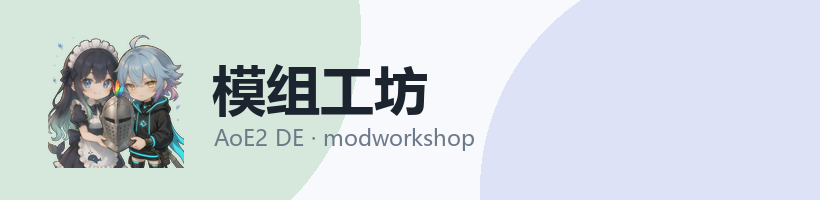
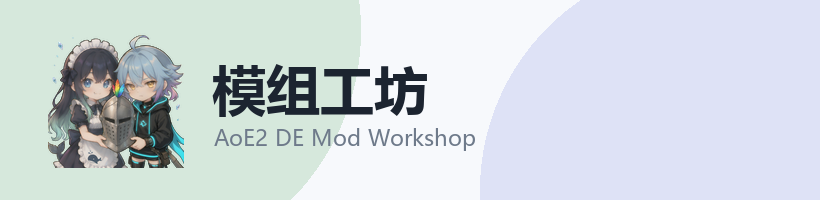
Call the program by the name it has on the shelf
The window title, the About page and the installer are Chinese, but the file a
user double-clicks had a lower-case hyphenated slug. The product name is now
AoE2 DE Mod Workshop everywhere it is a name: productName in tauri.conf.json,
the exe in all three bundles, the installer's AppName / shortcuts / uninstall
entry, and the banner subtitle.

The cargo target keeps its slug -- a crate name cannot carry spaces -- so the
bundler copies the built image to the display name. Nothing inside the page
changed; 模组工坊 is still what the rail and the header say.

Changed region(s): [[0.3659, 0.63, 0.5793, 0.75]]

diff --git a/_probe/make_bundle_native.py b/_probe/make_bundle_native.py
@@ -8,7 +8,7 @@ stripped CPython and 38 `.py` files.  The engine is a Rust library now, linked
 into the exe, so `runtime\\` is gone and `app\\` holds only what is genuinely
 data:
 
-    aoe2-mod-workshop.exe     the shell AND the engine, one image
+    AoE2 DE Mod Workshop.exe     the shell AND the engine, one image
     WebView2Loader.dll        the loader the exe cannot start without
     app\\aoe2mod\\ui\\static\\   index.html -- the screen, editable
     app\\aoe2mod\\schema\\      intents.json etc -- the format description,
@@ -38,7 +38,7 @@ README = """帝国时代 2 决定版 · 模组工坊
 
 怎么启动
 --------
-双击 aoe2-mod-workshop.exe。没有控制台窗口，不用装 Python，也不用装别的东西。
+双击 AoE2 DE Mod Workshop.exe。没有控制台窗口，不用装 Python，也不用装别的东西。
 
 它需要什么
 ----------
@@ -54,7 +54,7 @@ README = """帝国时代 2 决定版 · 模组工坊
 
 文件夹里都是什么
 ----------------
-  aoe2-mod-workshop.exe   外壳 + 引擎（同一个程序，读 .dat 的代码在里面）
+  AoE2 DE Mod Workshop.exe   外壳 + 引擎（同一个程序，读 .dat 的代码在里面）
   WebView2Loader.dll      Windows 的 WebView2 装载器，缺了程序起不来
   app\\aoe2mod\\ui\\static\\  界面（index.html），可以直接改
   app\\aoe2mod\\schema\\     格式说明（JSON），可以直接改
@@ -148,7 +148,7 @@ def main(argv=None):
         shutil.rmtree(out, ignore_errors=True)
     os.makedirs(out, exist_ok=True)
 
-    shutil.copy2(EXE, os.path.join(out, "aoe2-mod-workshop.exe"))
+    shutil.copy2(EXE, os.path.join(out, "AoE2 DE Mod Workshop.exe"))
     shutil.copy2(dll_src, os.path.join(out, LOADER_DLL))
     app_stats = copy_app(os.path.join(out, "app"))
     if app_stats is None:
@@ -157,13 +157,13 @@ def main(argv=None):
                  encoding="utf-8", newline="\r\n") as fh:
         fh.write(README)
 
-    exe_mb = os.path.getsize(os.path.join(out, "aoe2-mod-workshop.exe")) / (1024.0 ** 2)
+    exe_mb = os.path.getsize(os.path.join(out, "AoE2 DE Mod Workshop.exe")) / (1024.0 ** 2)
     total_mb, total_n = size_of(out)
     print("shell    %7.1f MB  (engine linked in)" % exe_mb)
     print("app      %7.1f MB  %5d files" % (app_stats[0] / (1024.0 ** 2), app_stats[1]))
     print("TOTAL    %7.1f MB  %5d files  -> %s" % (total_mb / (1024.0 ** 2), total_n, out))
 
-    for name in ("aoe2-mod-workshop.exe", LOADER_DLL):
+    for name in ("AoE2 DE Mod Workshop.exe", LOADER_DLL):
         if not os.path.isfile(os.path.join(out, name)):
             print("FAILED: %s did not land in %s" % (name, out))
             return 1

diff --git a/_probe/make_bundle.py b/_probe/make_bundle.py
@@ -3,7 +3,7 @@
 What it produces
 ----------------
     _out\\AoE2ModWorkshop\\  (the path lives in `_probe/_paths.py`)
-        aoe2-mod-workshop.exe     ~5.5 MB   the Tauri shell
+        AoE2 DE Mod Workshop.exe     ~5.5 MB   the Tauri shell
         runtime\\                  ~35 MB    stripped CPython 3.12.14
         app\\tools\\run_ui.py
         app\\aoe2mod\\             ~3 MB     engine (source only, no test output)
@@ -69,7 +69,7 @@ README = """帝国时代 2 决定版 · 模组工坊
 
 怎么启动
 --------
-双击 aoe2-mod-workshop.exe。没有控制台窗口，也不用装 Python。
+双击 AoE2 DE Mod Workshop.exe。没有控制台窗口，也不用装 Python。
 
 它需要什么
 ----------
@@ -86,7 +86,7 @@ README = """帝国时代 2 决定版 · 模组工坊
 
 文件夹里都是什么
 ----------------
-  aoe2-mod-workshop.exe   外壳（Tauri + WebView2）
+  AoE2 DE Mod Workshop.exe   外壳（Tauri + WebView2）
   runtime\\                自带的 Python 3.12，只需要标准库
   app\\                    引擎与界面（aoe2mod\\ + tools\\）
   dat_archive\\           官方数据档案库（313 MB，见下）
@@ -435,7 +435,7 @@ def main(argv=None):
         _rmtree(out)
     os.makedirs(out, exist_ok=True)
 
-    shutil.copy2(EXE, os.path.join(out, "aoe2-mod-workshop.exe"))
+    shutil.copy2(EXE, os.path.join(out, "AoE2 DE Mod Workshop.exe"))
     # Beside the exe, not inside app\ or runtime\: the Windows loader searches
     # the directory of the image before anywhere else.
     shutil.copy2(dll_src, os.path.join(out, LOADER_DLL))
@@ -460,7 +460,7 @@ def main(argv=None):
                  encoding="utf-8", newline="\r\n") as fh:
         fh.write(README)
 
-    exe_mb = os.path.getsize(os.path.join(out, "aoe2-mod-workshop.exe")) / (1024.0 ** 2)
+    exe_mb = os.path.getsize(os.path.join(out, "AoE2 DE Mod Workshop.exe")) / (1024.0 ** 2)
     total_mb, total_n = size_of(out)
     print("runtime  %7.1f MB  %5d files" % (rt_mb / (1024.0 ** 2), rt_n))
     print("app      %7.1f MB  %5d files" % (app_mb / (1024.0 ** 2), app_n))
@@ -469,7 +469,7 @@ def main(argv=None):
 
     # The DLL is the one file whose absence produces no log line, so check it
     # landed rather than trusting the copy above.
-    for name in ("aoe2-mod-workshop.exe", LOADER_DLL):
+    for name in ("AoE2 DE Mod Workshop.exe", LOADER_DLL):
         if not os.path.isfile(os.path.join(out, name)):
             print("FAILED: %s did not land in %s" % (name, out))
             return 1

diff --git a/_probe/probe_startup_failure.py b/_probe/probe_startup_failure.py
@@ -328,7 +328,7 @@ def stage(name, exe, with_app):
     # FileExistsError instead of "still in use".
     d = os.path.join(SANDBOX, "%s_%d" % (name, int(time.time())))
     os.makedirs(d)
-    shutil.copy2(exe, os.path.join(d, "aoe2-mod-workshop.exe"))
+    shutil.copy2(exe, os.path.join(d, "AoE2 DE Mod Workshop.exe"))
     shutil.copy2(DLL, os.path.join(d, "WebView2Loader.dll"))
     if with_app:
         shutil.copytree(os.path.join(BUNDLE, "app"), os.path.join(d, "app"))
@@ -387,7 +387,7 @@ def run_missing_data(port):
     off = log_size()
     env = dict(os.environ)
     env["AOE2MOD_GAME_ROOT"] = empty
-    p = subprocess.Popen([os.path.join(BUNDLE, "aoe2-mod-workshop.exe"),
+    p = subprocess.Popen([os.path.join(BUNDLE, "AoE2 DE Mod Workshop.exe"),
                           "--port", str(port)], cwd=BUNDLE, env=env,
                          stdout=subprocess.DEVNULL, stderr=subprocess.DEVNULL)
     err = None
@@ -455,7 +455,7 @@ def run(name, exe, with_app, port):
     d = stage(name, exe, with_app)
     off = log_size()
     t0 = time.time()
-    p = subprocess.Popen([os.path.join(d, "aoe2-mod-workshop.exe"), "--port", str(port)],
+    p = subprocess.Popen([os.path.join(d, "AoE2 DE Mod Workshop.exe"), "--port", str(port)],
                          cwd=d)
     m_log = m_port = None
     while time.time() - t0 < WAIT:

diff --git a/_probe/test_e2e_shipped.py b/_probe/test_e2e_shipped.py
@@ -18,7 +18,7 @@ import urllib.request
 import _paths as P
 
 OUT = P.BUNDLE
-EXE = os.path.join(OUT, "aoe2-mod-workshop.exe")
+EXE = os.path.join(OUT, "AoE2 DE Mod Workshop.exe")
 SRC = GP.ACCOUNT
 TMP = os.path.join(os.environ["TEMP"], "aoe2mod-e2e-shipped")
 PORT = 7807
@@ -46,7 +46,7 @@ def get(path):
 def kill_engine_child():
     """Kill the shipped runtime python this exe started, if it outlived it.
 
-    `taskkill /IM aoe2-mod-workshop.exe` kills the shell only.  The child python
+    `taskkill /IM AoE2 DE Mod Workshop.exe` kills the shell only.  The child python
     keeps the listening socket for a few more seconds, and because Windows lets a
     second socket bind a port the dying one still accepts on, a request can land
     on the corpse.  The child is identified by executable path, never by image
@@ -96,7 +96,7 @@ def main():
     with open(os.path.join(state, "builds.json"), "w", encoding="utf-8") as fh:
         fh.write('{"builds":{}}')
 
-    subprocess.run(["taskkill", "/IM", "aoe2-mod-workshop.exe", "/F"],
+    subprocess.run(["taskkill", "/IM", "AoE2 DE Mod Workshop.exe", "/F"],
                    capture_output=True)
     kill_engine_child()
     port_free(PORT)

diff --git a/_probe/ship_and_verify.py b/_probe/ship_and_verify.py
@@ -80,7 +80,7 @@ def check_exe_is_the_built_one(out):
     program instead of the program is the "all green, wrong artefact" failure
     this project has already paid for once.
     """
-    exe = os.path.join(out, "aoe2-mod-workshop.exe")
+    exe = os.path.join(out, "AoE2 DE Mod Workshop.exe")
     if not os.path.isfile(exe):
         print("REFUSING: no exe in the bundle at", exe)
         return None
@@ -477,14 +477,14 @@ def check_routes(port):
 
 
 def kill_exe():
-    subprocess.run(["taskkill", "/IM", "aoe2-mod-workshop.exe", "/F"],
+    subprocess.run(["taskkill", "/IM", "AoE2 DE Mod Workshop.exe", "/F"],
                    capture_output=True)
 
 
 def kill_engine_child():
     """Kill the shipped runtime python this exe started, if it outlived it.
 
-    `taskkill /IM aoe2-mod-workshop.exe` kills the shell; the child python it
+    `taskkill /IM AoE2 DE Mod Workshop.exe` kills the shell; the child python it
     spawned keeps the listening socket for a few more seconds and, because
     Windows lets two sockets share a port without SO_EXCLUSIVEADDRUSE, a new
     child can bind the same port while the dying one still accepts.  Then a

diff --git a/_probe/test_soft_edit.py b/_probe/test_soft_edit.py
@@ -10,13 +10,13 @@ sys.path.insert(0, os.path.dirname(os.path.abspath(__file__)))
 import _paths as P
 
 BUNDLE = P.BUNDLE
-EXE = os.path.join(BUNDLE, 'aoe2-mod-workshop.exe')
+EXE = os.path.join(BUNDLE, 'AoE2 DE Mod Workshop.exe')
 PORT = 7813
 UNIT = 74
 
 
 def start():
-    subprocess.run(['taskkill', '/IM', 'aoe2-mod-workshop.exe', '/F'], capture_output=True)
+    subprocess.run(['taskkill', '/IM', 'AoE2 DE Mod Workshop.exe', '/F'], capture_output=True)
     time.sleep(1)
     p = subprocess.Popen([EXE, '--port', str(PORT)], cwd=BUNDLE,
                          stdout=subprocess.DEVNULL, stderr=subprocess.DEVNULL)
@@ -121,7 +121,7 @@ try:
         print('  shot ' + shot)
         b.close()
 finally:
-    subprocess.run(['taskkill', '/IM', 'aoe2-mod-workshop.exe', '/F'], capture_output=True)
+    subprocess.run(['taskkill', '/IM', 'AoE2 DE Mod Workshop.exe', '/F'], capture_output=True)
 
 print()
 print('SOFT EDIT PROBE: ' + ('ALL GREEN' if not FAILED else 'FAILURES: ' + '; '.join(FAILED)))

diff --git a/_probe/test_pages_shipped.py b/_probe/test_pages_shipped.py
@@ -34,7 +34,7 @@ ROOT = os.path.dirname(HERE)
 sys.path.insert(0, ROOT)
 
 BUNDLE = P.BUNDLE
-EXE = os.path.join(BUNDLE, "aoe2-mod-workshop.exe")
+EXE = os.path.join(BUNDLE, "AoE2 DE Mod Workshop.exe")
 PORT = 7809
 
 # Assertion per view: element id -> (minimum children, human name)
@@ -85,7 +85,7 @@ def main():
     if not os.path.isfile(EXE):
         print("REFUSING: no bundle at", BUNDLE)
         return 1
-    subprocess.run(["taskkill", "/IM", "aoe2-mod-workshop.exe", "/F"],
+    subprocess.run(["taskkill", "/IM", "AoE2 DE Mod Workshop.exe", "/F"],
                    capture_output=True)
     time.sleep(1)
     p = subprocess.Popen([EXE, "--port", str(PORT)], cwd=BUNDLE,

diff --git a/_probe/test_newcomer_wall.py b/_probe/test_newcomer_wall.py
@@ -188,7 +188,7 @@ def main():
         # that publishes source, and had it deleted.  The front door is the
         # installer; nothing in this file may pin a checkout launcher again.
         check("it points at the release download", "releases/latest" in txt)
-        check("it names the build a reader should open", "aoe2-mod-workshop.exe" in txt)
+        check("it names the build a reader should open", "AoE2 DE Mod Workshop.exe" in txt)
         check("it says the repository is source, not the thing to run",
               "源码" in txt and "不是给人拿去跑的东西" in txt)
         check("it names the dropdown that actually exists", "创建游戏" in txt)

diff --git a/_probe/test_parse_build_agreement.py b/_probe/test_parse_build_agreement.py
@@ -46,7 +46,7 @@ import urllib.request
 import _paths as P
 
 BUNDLE = P.BUNDLE
-EXE = os.path.join(BUNDLE, "aoe2-mod-workshop.exe")
+EXE = os.path.join(BUNDLE, "AoE2 DE Mod Workshop.exe")
 PORT = 7814
 
 # One sentence per intent the reader claims.  Written the way a player would.
@@ -125,7 +125,7 @@ def main():
     if not os.path.isfile(EXE):
         print("no %s" % EXE)
         return 1
-    subprocess.run(["taskkill", "/IM", "aoe2-mod-workshop.exe", "/F"],
+    subprocess.run(["taskkill", "/IM", "AoE2 DE Mod Workshop.exe", "/F"],
                    capture_output=True)
     time.sleep(1)
     proc = subprocess.Popen([EXE, "--port", str(PORT)], cwd=BUNDLE,

diff --git a/_probe/test_local_save_shipped.py b/_probe/test_local_save_shipped.py
@@ -65,12 +65,12 @@ def call(port, path, payload=None, timeout=60):
 
 
 def main():
-    exe = os.path.join(P.BUNDLE, "aoe2-mod-workshop.exe")
+    exe = os.path.join(P.BUNDLE, "AoE2 DE Mod Workshop.exe")
     if not os.path.isfile(exe):
         print("REFUSING: no exe in the bundle at", exe)
         return 1
     port = free_port()
-    subprocess.run(["taskkill", "/IM", "aoe2-mod-workshop.exe", "/F"],
+    subprocess.run(["taskkill", "/IM", "AoE2 DE Mod Workshop.exe", "/F"],
                    capture_output=True)
     p = subprocess.Popen([exe, "--port", str(port)], cwd=P.BUNDLE,
                          stdout=subprocess.PIPE, stderr=subprocess.STDOUT)

diff --git a/_probe/test_window_mode.py b/_probe/test_window_mode.py
@@ -28,7 +28,7 @@ def windows(pid=None):
 
     ``pid`` filters to the windows one process owns, and that filter is the
     whole point.  An earlier version counted windows by TITLE across the
-    machine, so the packaged ``aoe2-mod-workshop.exe`` -- same title, same
+    machine, so the packaged ``AoE2 DE Mod Workshop.exe`` -- same title, same
     taskbar -- turned "exactly one window" into a red that had nothing to do
     with the code under test.  A nail that asks "did MY process open one
     window" has to ask the OS about that process.

diff --git a/tools/describe.py b/tools/describe.py
@@ -95,7 +95,7 @@ def build():
         "schema_version": intents_raw.get("schema_version"),
         "targets_dat_version": intents_raw.get("targets_dat_version"),
         "commands": {
-            "start": "双击安装包装出来的 aoe2-mod-workshop.exe",
+            "start": "双击安装包装出来的 AoE2 DE Mod Workshop.exe",
             "verify_quick": "python _probe/run_suites.py",
             "verify_long": "python _probe/run_long.py",
             "suites": {"python": _suite_count(), "node": 1},
